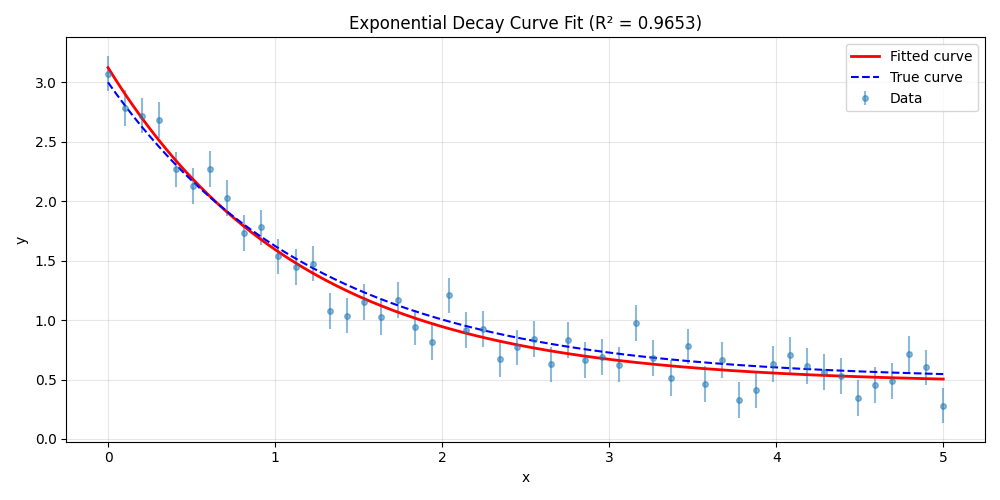
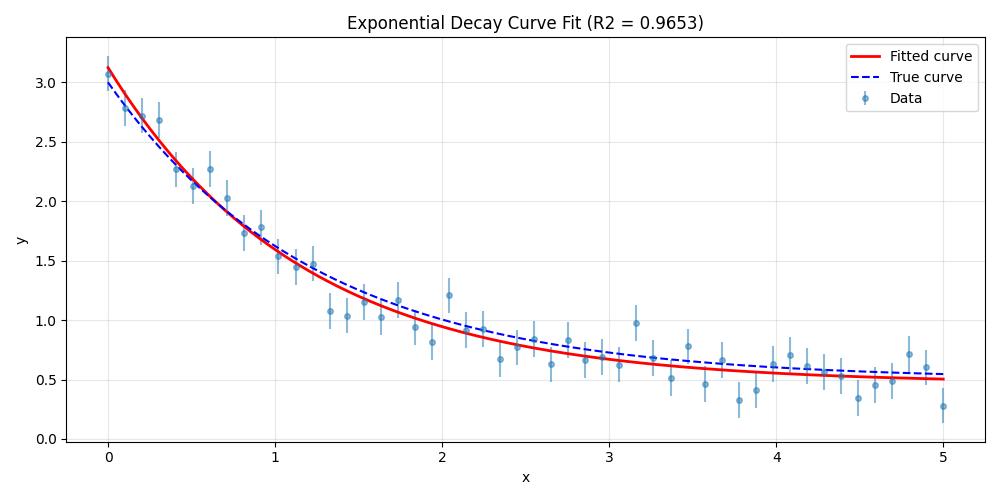
feat: update numerical differentiation implementation and enhance interpolation methods; add new images for visualization

Changed region(s): [[0.341, 0.03, 0.713, 0.06]]

diff --git a/projects/00-core-foundations/python/scipy/03-basic-functions.py b/projects/00-core-foundations/python/scipy/03-basic-functions.py
@@ -74,7 +74,17 @@ print("\n" + "=" * 60)
 print("Example 2: Numerical Differentiation")
 print("=" * 60)
 
-from scipy.misc import derivative
+from scipy.optimize import approx_fprime
+
+# Custom numerical derivative using finite differences (replaces deprecated scipy.misc.derivative)
+def numerical_derivative(func, x0, dx=1e-5, n=1):
+    """Compute nth derivative using central finite differences."""
+    if n == 1:
+        return (func(x0 + dx) - func(x0 - dx)) / (2 * dx)
+    elif n == 2:
+        return (func(x0 + dx) - 2 * func(x0) + func(x0 - dx)) / (dx**2)
+    else:
+        raise ValueError(f"Only n=1,2 supported, got n={n}")
 
 # Compute derivatives of f(x) = sin(x)
 def g(x):
@@ -83,20 +93,20 @@ def g(x):
 x0 = np.pi / 4  # 45 degrees
 
 # First derivative of sin(x) = cos(x)
-d1 = derivative(g, x0, dx=1e-5, n=1)
+d1 = numerical_derivative(g, x0, dx=1e-5, n=1)
 print(f"First derivative of sin(x) at x=pi/4:")
 print(f"  Numerical:  {d1:.6f}")
 print(f"  Analytical: {np.cos(x0):.6f}")
 
 # Second derivative of sin(x) = -sin(x)
-d2 = derivative(g, x0, dx=1e-5, n=2)
+d2 = numerical_derivative(g, x0, dx=1e-5, n=2)
 print(f"\nSecond derivative of sin(x) at x=pi/4:")
 print(f"  Numerical:  {d2:.6f}")
 print(f"  Analytical: {-np.sin(x0):.6f}")
 
 # Compare derivatives at multiple points
 x_pts = np.linspace(0, 2*np.pi, 200)
-numerical_d1 = [derivative(g, x, dx=1e-6, n=1) for x in x_pts]
+numerical_d1 = [numerical_derivative(g, x, dx=1e-6, n=1) for x in x_pts]
 
 fig, ax = plt.subplots(figsize=(8, 4))
 ax.plot(x_pts, np.sin(x_pts), "b-", label="sin(x)", linewidth=2)

diff --git a/projects/00-core-foundations/python/scipy/06-interpolation.py b/projects/00-core-foundations/python/scipy/06-interpolation.py
@@ -33,9 +33,9 @@ x_fine = np.linspace(0, 10, 300)
 
 # Different interpolation methods
 methods = {
-    "Linear":     interpolate.interp1d(x_data, y_data, kind="linear"),
-    "Cubic":      interpolate.interp1d(x_data, y_data, kind="cubic"),
-    "Quadratic":  interpolate.interp1d(x_data, y_data, kind="quadratic"),
+    "Linear":     interpolate.interp1d(x_data, y_data, kind="linear", fill_value="extrapolate"),
+    "Cubic":      interpolate.interp1d(x_data, y_data, kind="cubic", fill_value="extrapolate"),
+    "Quadratic":  interpolate.interp1d(x_data, y_data, kind="quadratic", fill_value="extrapolate"),
 }
 
 fig, ax = plt.subplots(figsize=(10, 5))
@@ -226,7 +226,7 @@ values_irregular = np.sin(t_irregular) + 0.3 * np.random.randn(n_samples)
 
 # Resample to regular time grid
 t_regular = np.linspace(0, 10, 200)
-interp_func = interpolate.interp1d(t_irregular, values_irregular, kind="cubic")
+interp_func = interpolate.interp1d(t_irregular, values_irregular, kind="cubic", fill_value="extrapolate")
 values_regular = interp_func(t_regular)
 
 fig, ax = plt.subplots(figsize=(10, 4))

diff --git a/projects/00-core-foundations/python/scipy/08-linear-algebra.py b/projects/00-core-foundations/python/scipy/08-linear-algebra.py
@@ -208,8 +208,8 @@ A_qr = np.random.randn(5, 3)
 Q, R = linalg.qr(A_qr)
 print(f"\nQR Decomposition:")
 print(f"  A shape: {A_qr.shape}, Q shape: {Q.shape}, R shape: {R.shape}")
-print(f"  Q orthogonal check: |Q^T·Q - I| = {np.max(np.abs(Q.T @ Q - np.eye(3))):.2e}")
-print(f"  Reconstruction: |Q·R - A| = {np.max(np.abs(Q @ R - A_qr)):.2e}")
+print(f"  Q orthogonal check: |Q^T*Q - I| = {np.max(np.abs(Q.T @ Q - np.eye(Q.shape[1]))):.2e}")
+print(f"  Reconstruction: |Q*R - A| = {np.max(np.abs(Q @ R - A_qr)):.2e}")
 
 # --- Matrix Exponential ---
 A_exp = np.array([
@@ -219,7 +219,7 @@ A_exp = np.array([
 exp_A = linalg.expm(A_exp)
 print(f"\nMatrix exponential exp(A) for A = [[0,1],[-1,0]]:")
 print(f"  exp(A) =\n{exp_A}")
-print(f"  This is a rotation matrix (cos θ, sin θ; -sin θ, cos θ)")
+print(f"  This is a rotation matrix (cos theta, sin theta; -sin theta, cos theta)")
 
 # Visualize matrix exponential effect
 fig, ax = plt.subplots(figsize=(6, 6))

diff --git a/projects/00-core-foundations/python/scipy/09-fft.py b/projects/00-core-foundations/python/scipy/09-fft.py
@@ -96,7 +96,6 @@ noise = 0.2 * np.random.randn(len(t))
 signal_psd = chirp + tone + noise
 
 # Compute PSD using Welch's method (via scipy.signal)
-from scipy.signal import welnberg_welch as _  # Fallback if unavailable
 # Use manual periodogram if welch not available
 fft_result = sp_fft.fft(signal_psd)
 freqs_full = sp_fft.fftfreq(len(t), 1/fs)
@@ -207,7 +206,7 @@ print("=" * 60)
 from scipy.signal import windows
 
 # Compare different window functions
-window_names = ["hanning", "hamming", "blackman", "kaiser"]
+window_names = ["hann", "hamming", "blackman", "kaiser"]
 N = 256
 
 fig, axes = plt.subplots(2, 2, figsize=(12, 8))
